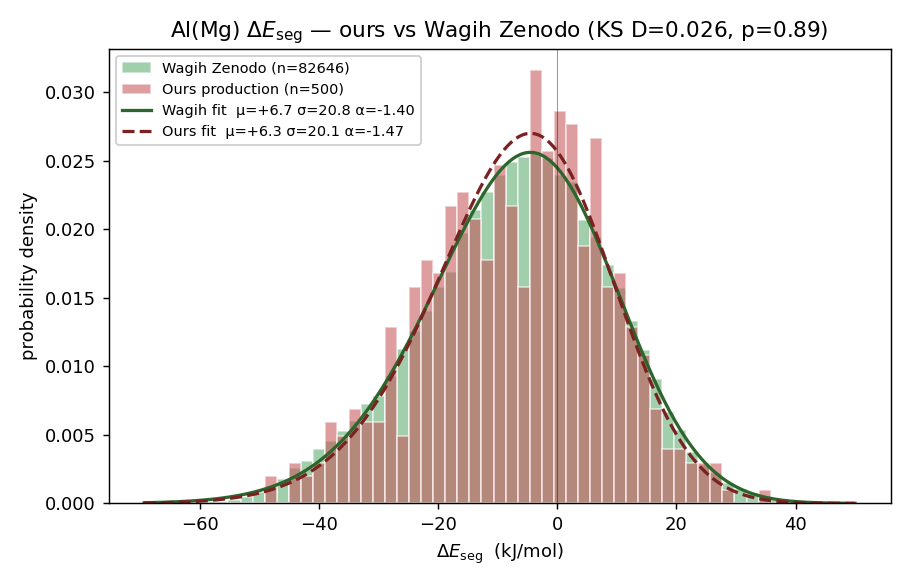
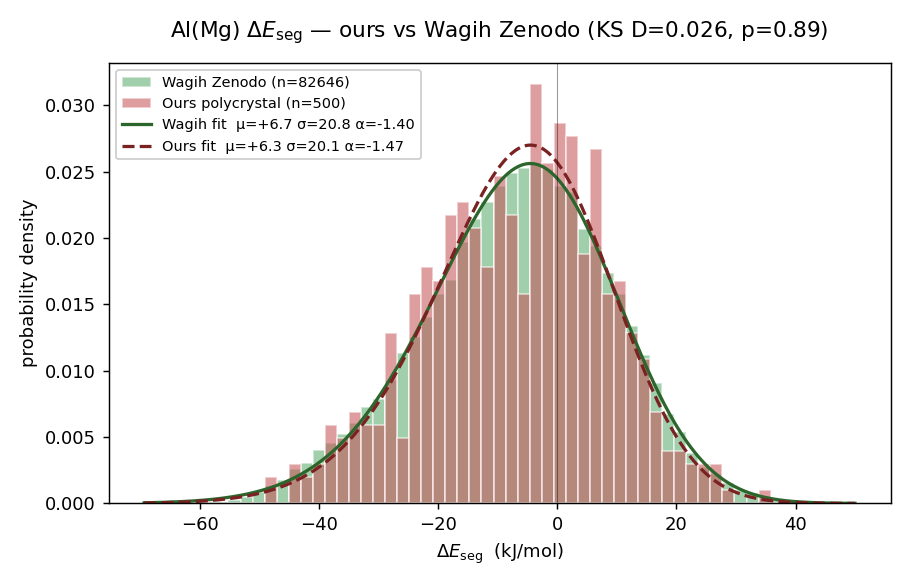
Land defense fig refinements + 16r queue-fill submit scripts
Carry-over from earlier sessions, never landed:
- compare_vs_wagih.py: legend "Ours production" → "Ours polycrystal";
  title gets pad=14 (matches refresh of 04_spectrum_match.png).
- replot_mechanism_for_defense.py: drop "— HMC vs Wagih FD" subtitle
  on Fig 2 per CHANGELOG 2026-05-05 afternoon ("subtitle to caption").
  Refresh 02_occupation_breakdown.png from updated script.
- 16-rank queue-fill submit scripts (CHANGELOG 2026-04-30 afternoon):
  T=500 K X_c=0.06 + T=700 K X_c=0.10/0.15. Run history already in
  CHANGELOG; landing the scripts here for reproducibility.

diff --git a/project/scripts/compare_vs_wagih.py b/project/scripts/compare_vs_wagih.py
@@ -83,7 +83,7 @@ def main():
     ax.hist(dE_wagih, bins=bins, density=True, color="#55a868", alpha=0.55,
             edgecolor="white", label=f"Wagih Zenodo (n={m_wagih['n']})")
     ax.hist(dE_ours, bins=bins, density=True, color="#c44e52", alpha=0.55,
-            edgecolor="white", label=f"Ours production (n={m_ours['n']})")
+            edgecolor="white", label=f"Ours polycrystal (n={m_ours['n']})")
     # overlay fits
     xs = np.linspace(bins[0], bins[-1], 400)
     ax.plot(xs, stats.skewnorm.pdf(xs, a=f_wagih["alpha"], loc=f_wagih["mu"],
@@ -98,7 +98,7 @@ def main():
     ax.set_xlabel(r"$\Delta E_\mathrm{seg}$  (kJ/mol)")
     ax.set_ylabel("probability density")
     ax.set_title(r"Al(Mg) $\Delta E_\mathrm{seg}$ — ours vs Wagih Zenodo "
-                 + f"(KS D={ks.statistic:.3f}, p={ks.pvalue:.2g})")
+                 + f"(KS D={ks.statistic:.3f}, p={ks.pvalue:.2g})", pad=14)
     ax.legend(loc="upper left", fontsize=8, framealpha=0.95)
     fig.tight_layout()
     Path(args.out_png).parent.mkdir(parents=True, exist_ok=True)

diff --git a/project/scripts/replot_mechanism_for_defense.py b/project/scripts/replot_mechanism_for_defense.py
@@ -191,8 +191,7 @@ def fig2_occupation_breakdown_single(d: dict) -> None:
     ax.set_ylabel(r"$P_i$ — probability site $i$ is Mg", fontsize=12)
     ax.set_title(
         rf"Per-site Mg occupation $P_i$ vs $\Delta E_i$ at "
-        rf"$X_c={x_c:.3f}$  ($X_{{GB}}={x_gb:.3f}$)  "
-        r"—  HMC vs Wagih FD",
+        rf"$X_c={x_c:.3f}$  ($X_{{GB}}={x_gb:.3f}$)",
         fontsize=12.5, pad=16,
     )
     ax.set_ylim(-0.05, 1.08)